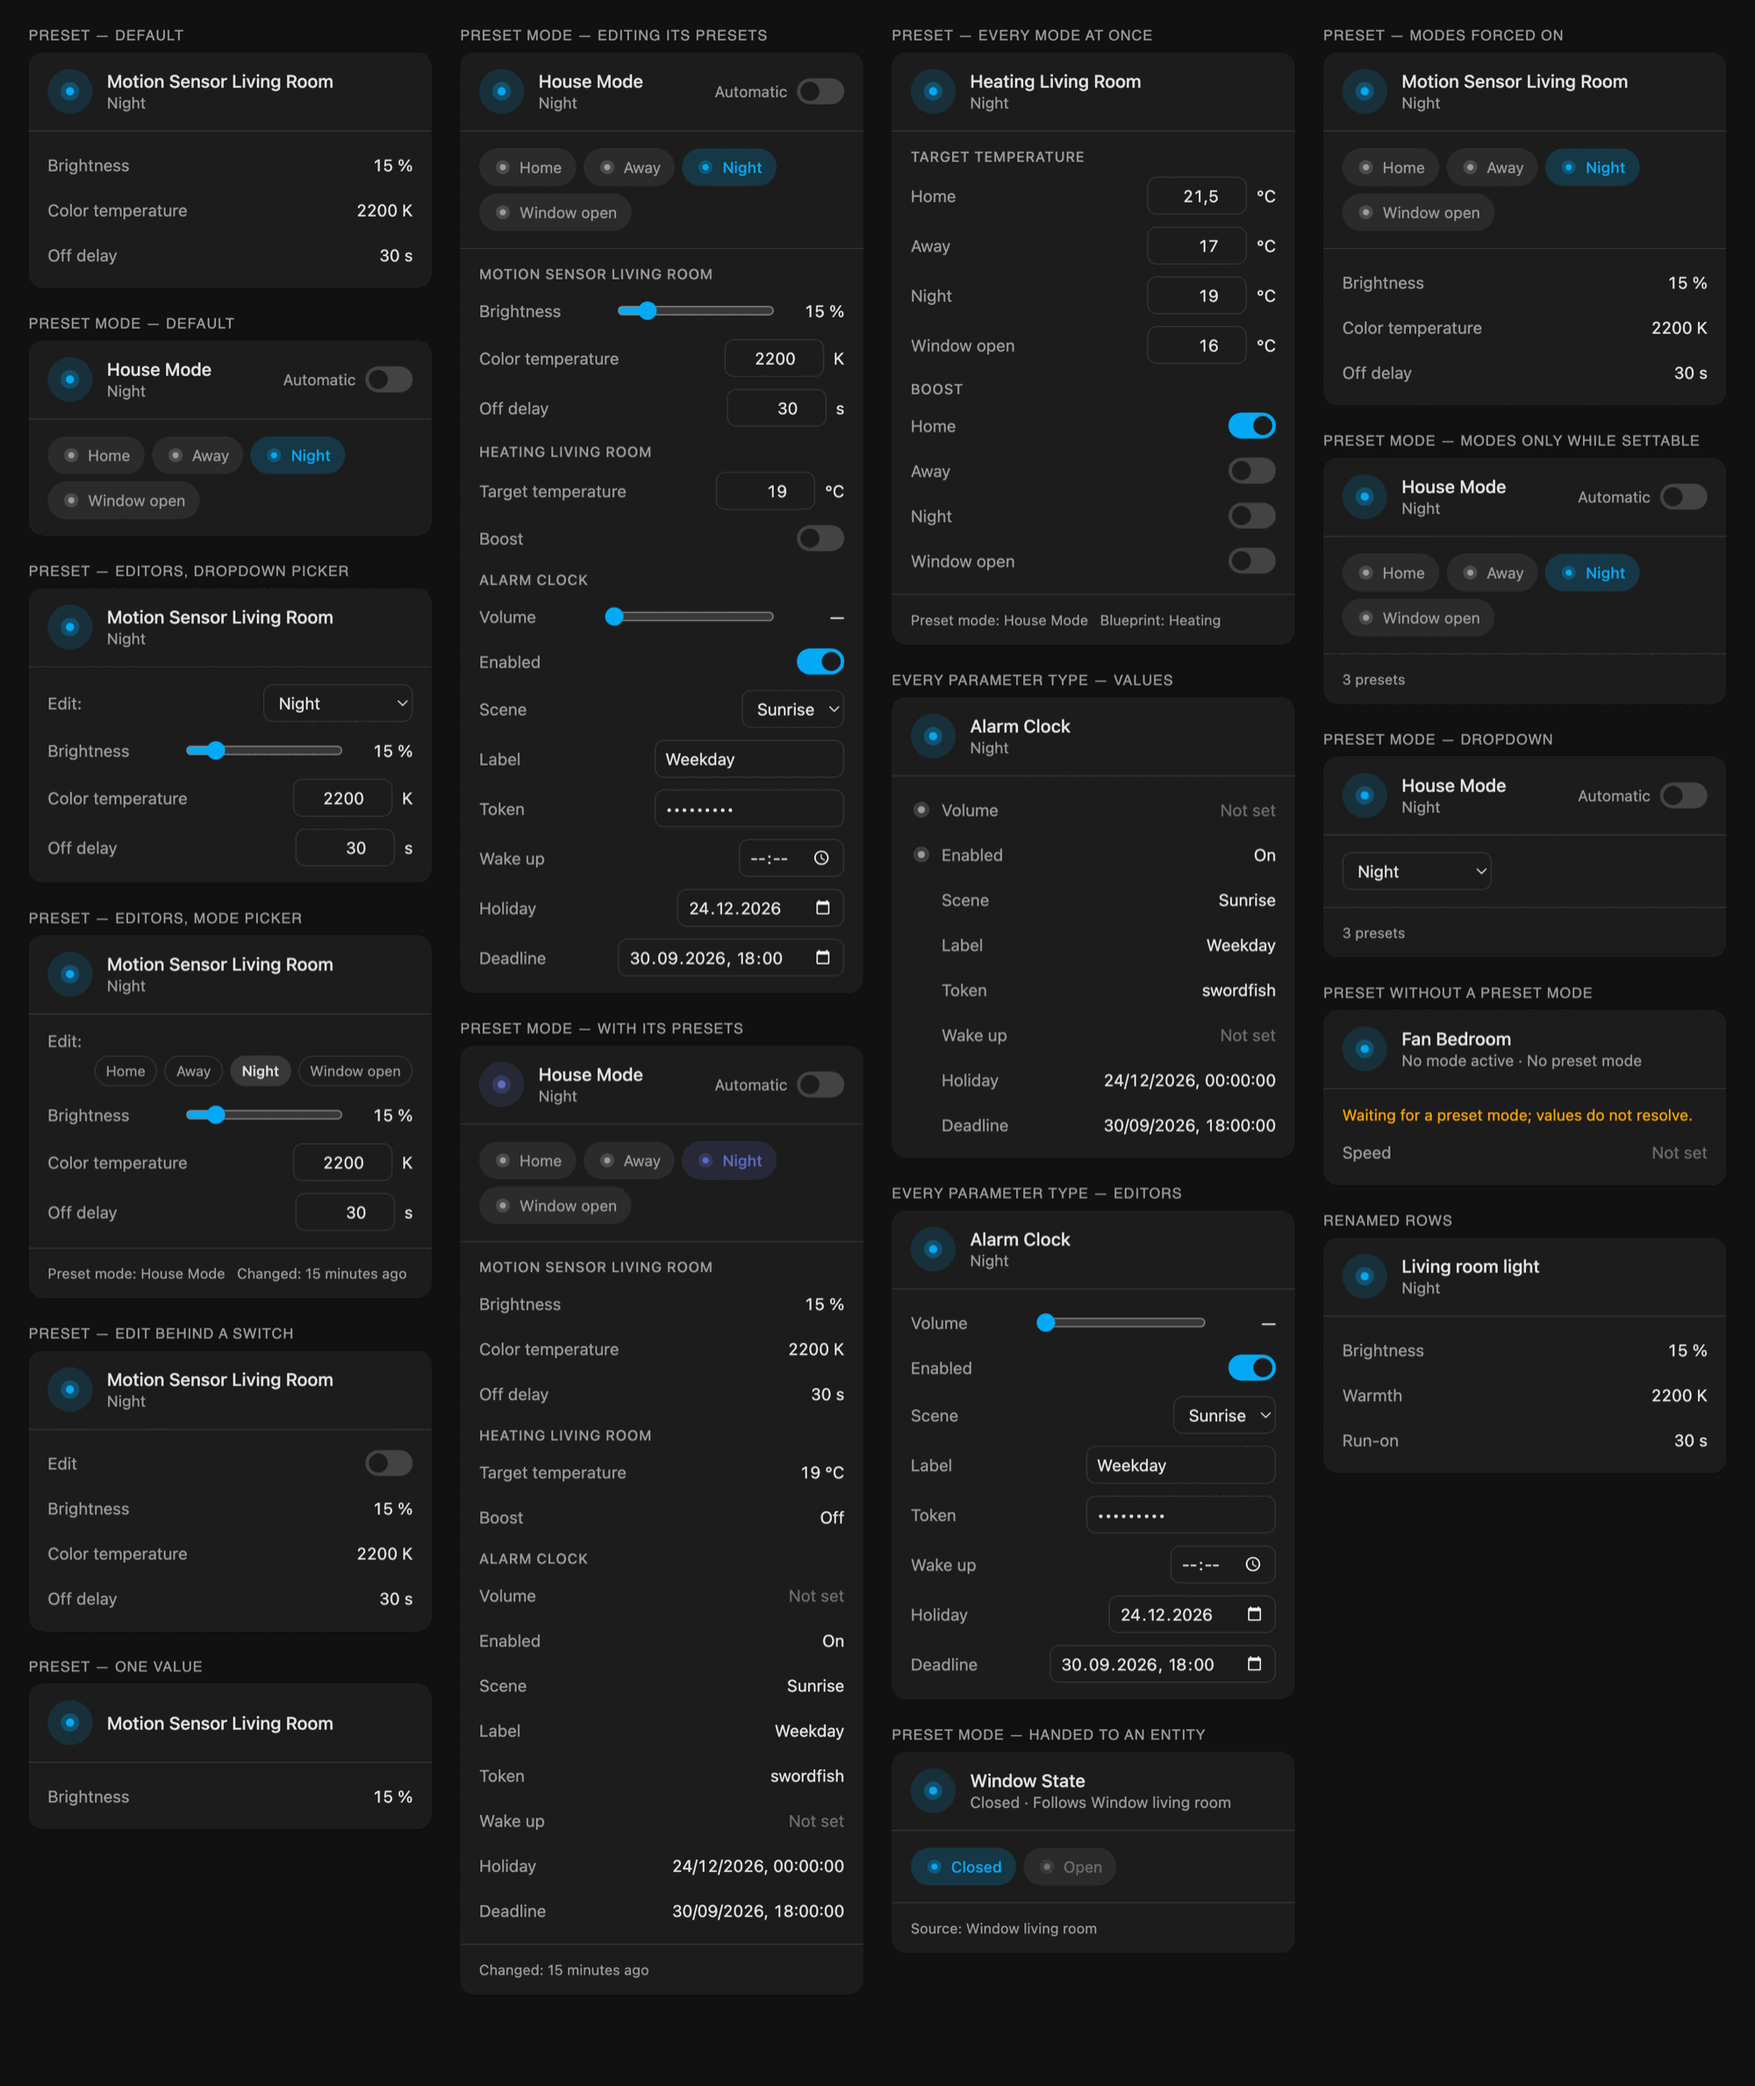
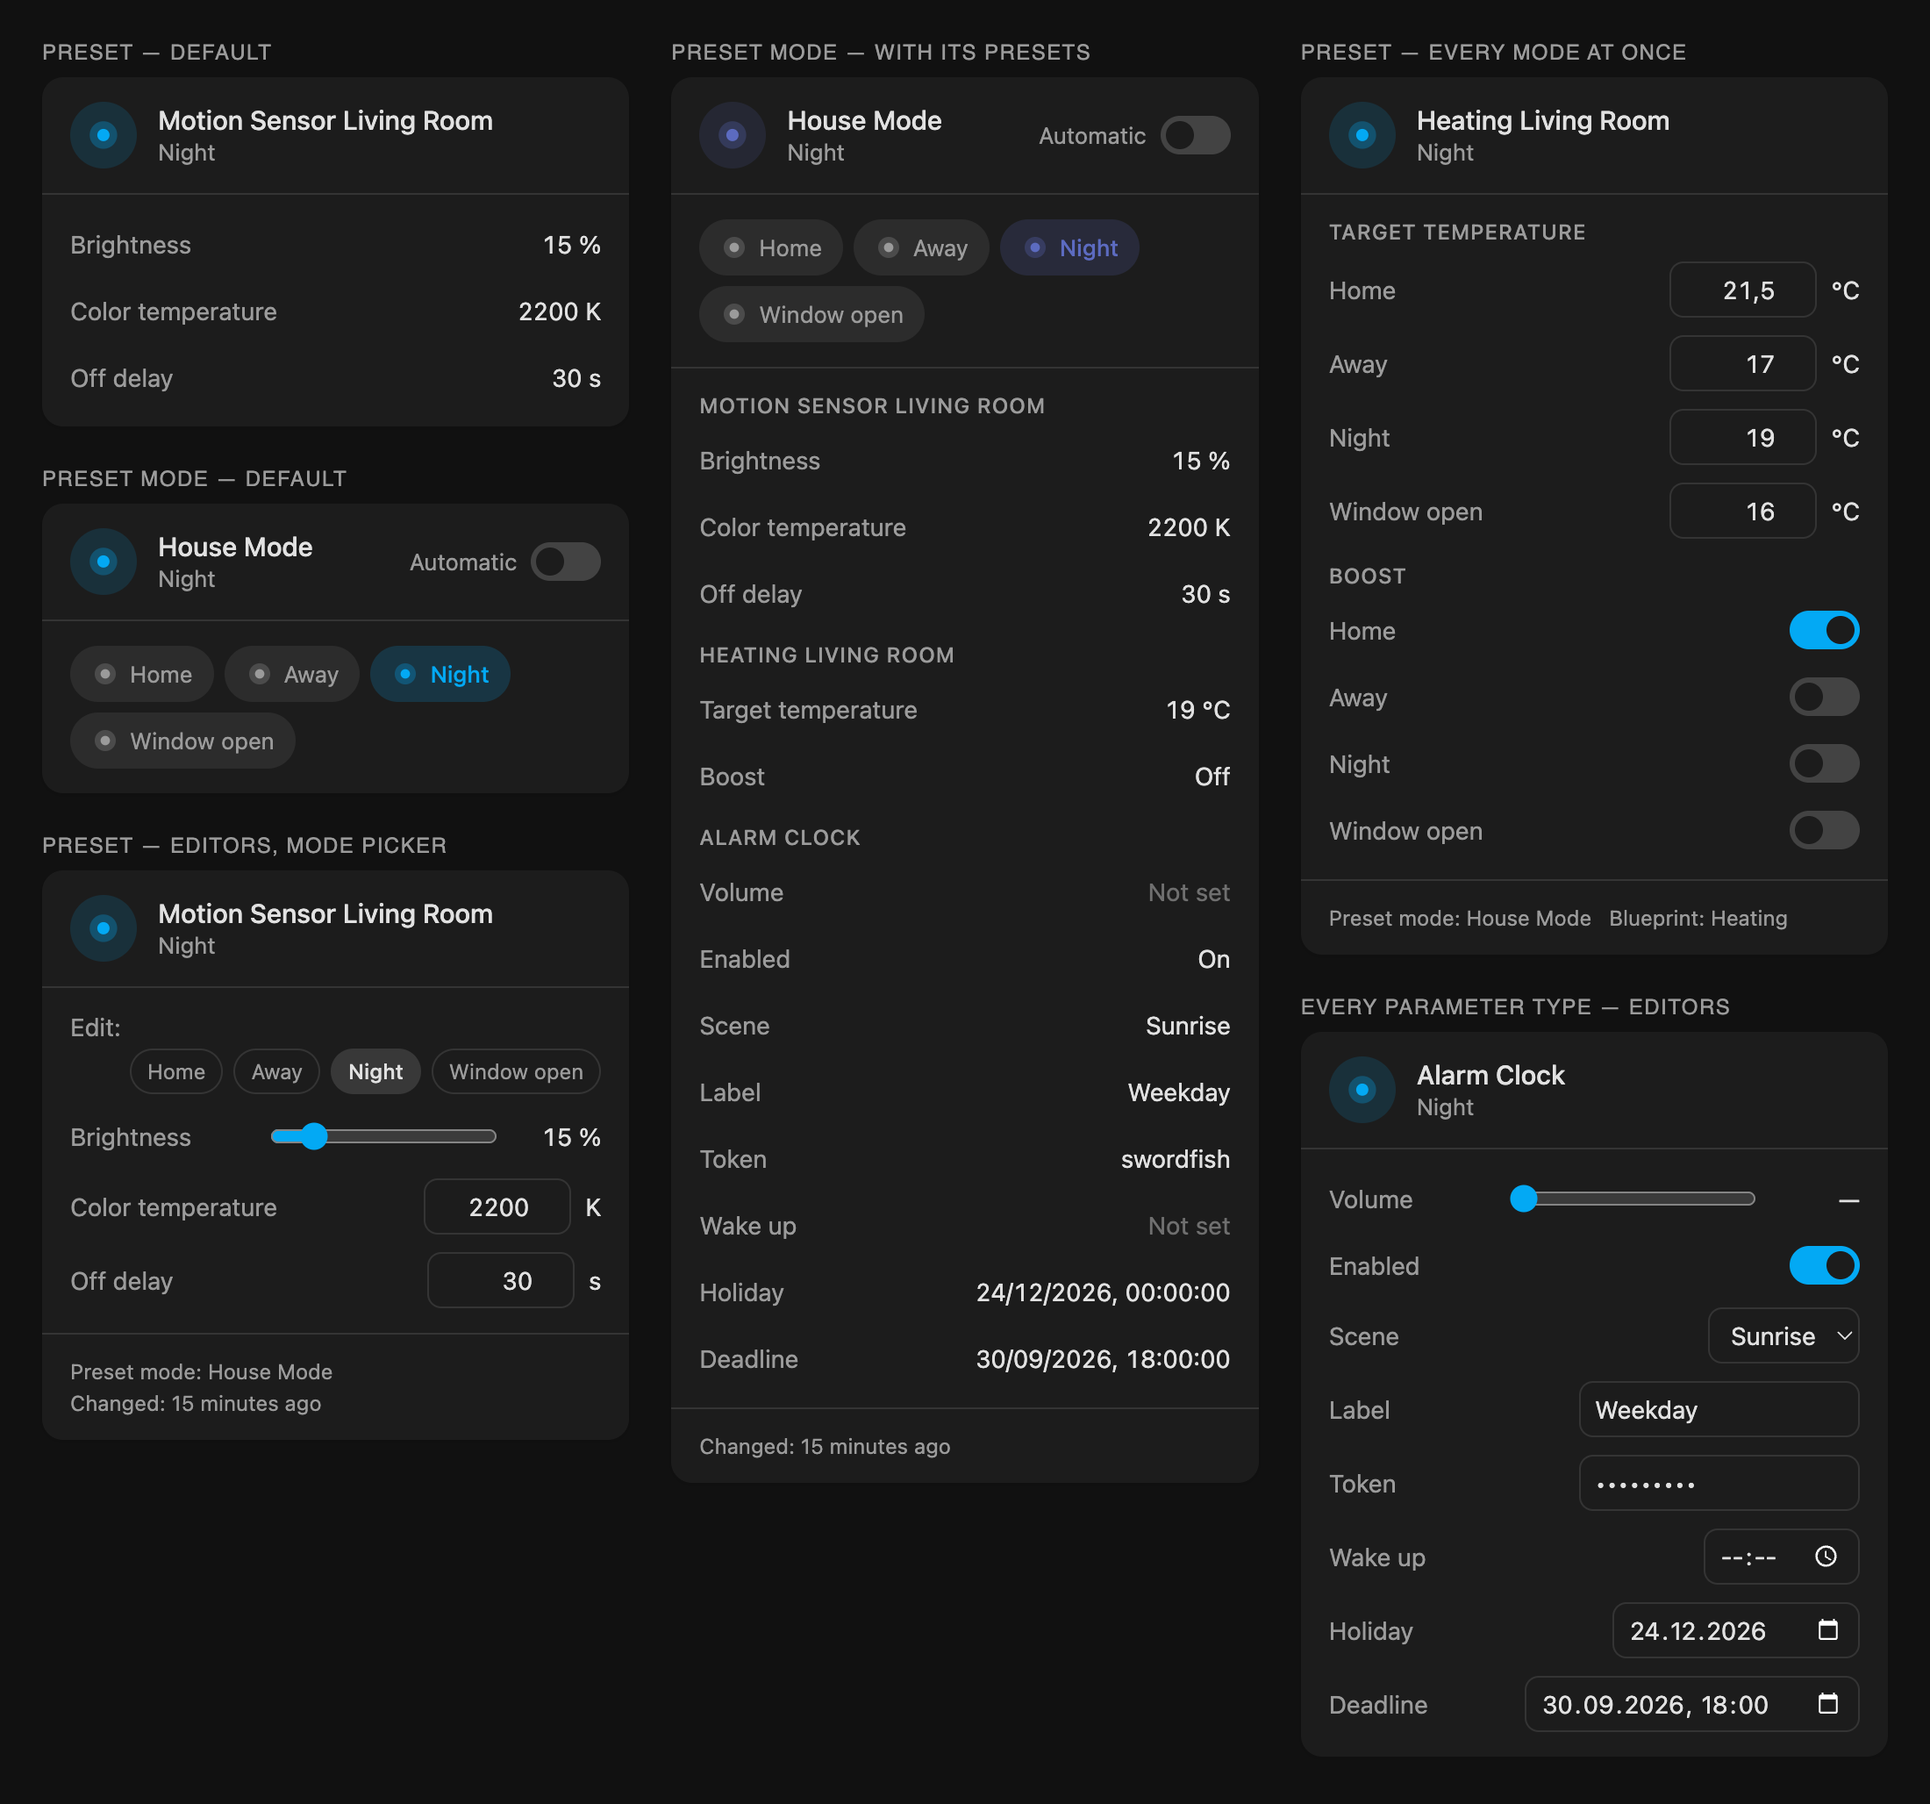
Cut the README picture down to six cards
Seventeen cards at the top of the file was a catalogue, not an introduction - a reader scrolled past all of it to reach the installation section. Six carry the same ground: both kinds of subject, reading versus editing, the composite view and every parameter type. Which six is now a tag in preview.html rather than an argument on the command line, so a card that changes shape changes the picture with it.

diff --git a/frontend/preview.html b/frontend/preview.html
@@ -99,7 +99,7 @@
      tall card's worth of air beneath it. */
   .grid.gallery {
     display: block;
-    column-count: 4;
+    column-count: var(--gallery-columns, 4);
     column-gap: 24px;
   }
 
@@ -646,11 +646,16 @@
 
     // ---------------------------------------------------------------------
     // 4. One card per thing worth looking at.
+    //
+    // The third element tags a card: `narrow` puts it in a 200 pixel column,
+    // `showcase` marks the handful that stand for the rest. Which cards the
+    // picture in the README shows is decided here, not on the command line -
+    // so a card that changes shape changes the picture with it.
     // ---------------------------------------------------------------------
 
     const CARDS = [
-      ["Preset — default", { entity: "sensor.motion_active_mode" }],
-      ["Preset mode — default", { entity: "sensor.house_mode_mode" }],
+      ["Preset — default", { entity: "sensor.motion_active_mode" }, "showcase"],
+      ["Preset mode — default", { entity: "sensor.house_mode_mode" }, "showcase"],
       [
         "Preset — editors, dropdown picker",
         {
@@ -665,6 +670,7 @@
           editor: { enabled: true, mode: "picker" },
           footer: { content: ["preset_mode", "last_changed"] },
         },
+        "showcase",
       ],
       [
         "Preset — edit behind a switch",
@@ -696,6 +702,7 @@
           modes: { colors: { night: "#5c6bc0", window_open: "#ef6c00" } },
           footer: { content: ["last_changed"] },
         },
+        "showcase",
       ],
       [
         "Preset — every mode at once",
@@ -704,6 +711,7 @@
           editor: { enabled: true, mode: "all" },
           footer: { content: ["preset_mode", "blueprint"] },
         },
+        "showcase",
       ],
       [
         "Every parameter type — values",
@@ -715,6 +723,7 @@
           entity: "sensor.clock_active_mode",
           editor: { enabled: true, mode: "active" },
         },
+        "showcase",
       ],
       [
         "Preset mode — handed to an entity",
@@ -771,13 +780,15 @@
 
     resolveAll();
 
-    // Two query parameters, so a screenshot is a command rather than a series
-    // of clicks: `?theme=dark` opens in the dark palette, and `?gallery=1`
-    // drops the prose, the toggle and the narrow column tests - what is left
-    // is the set of cards worth putting in front of a reader.
+    // Query parameters, so a screenshot is a command rather than a series of
+    // clicks: `?theme=dark` opens in the dark palette, `?gallery=1480` drops
+    // the prose, the toggle and the narrow column tests and lays the rest out
+    // at that width, `?showcase=1` narrows it further to the tagged few, and
+    // `?columns=3` says how many columns they are poured into.
     const params = new URLSearchParams(location.search);
     if (params.get("theme") === "dark") document.body.classList.add("dark");
     const gallery = params.has("gallery");
+    const showcase = params.has("showcase");
     if (gallery) {
       for (const id of ["intro", "theme-toggle"]) document.getElementById(id)?.remove();
       // A fixed width so the same command produces the same picture, whatever
@@ -785,17 +796,21 @@
       document.body.style.width = `${params.get("gallery") || 1480}px`;
       document.body.style.boxSizing = "border-box";
       document.getElementById("grid").classList.add("gallery");
+      if (params.has("columns")) {
+        document.body.style.setProperty("--gallery-columns", params.get("columns"));
+      }
     }
 
     import("../custom_components/preset_manager/www/preset-manager-card.js")
       .then(() => {
         const grid = document.getElementById("grid");
-        for (const [title, config, className] of CARDS) {
-          if (gallery && (className === "narrow" || title.includes("Not an entity"))) {
+        for (const [title, config, tags = ""] of CARDS) {
+          if (gallery && (tags.includes("narrow") || title.includes("Not an entity"))) {
             continue;
           }
+          if (showcase && !tags.includes("showcase")) continue;
           const column = document.createElement("div");
-          if (className) column.className = className;
+          if (tags) column.className = tags;
           const heading = document.createElement("h2");
           heading.textContent = title;
           column.appendChild(heading);

diff --git a/README.md b/README.md
@@ -57,12 +57,12 @@ handed to an entity you already have.
 
 ## What it looks like
 
-The integration brings its own dashboard card. Every shape it takes is below —
+The integration brings its own dashboard card. Six of its shapes are below —
 you write one line for the first one and add options only where you want them.
 
-![The Preset Manager card: seventeen variations, from a preset with three values to a preset mode with every preset it drives](assets/card-dark.png)
+![The Preset Manager card in six shapes: a preset showing three values, a preset mode with its four modes, the same preset with editors, a preset mode listing every preset it drives, one preset edited across all four modes at once, and every parameter type as an editor](assets/card-dark.png)
 
-Details, and the configuration behind each of them, are under
+The rest of them, and the configuration behind each, are under
 [Dashboard card](#dashboard-card).
 
 ## Installation
@@ -1059,16 +1059,19 @@ To look at the card without Home Assistant:
 npm run preview        # serves the repository; open the URL it prints
 ```
 
-Two query parameters make that page reproducible rather than something to
-click through: `?theme=dark` opens it in the dark palette, and `?gallery=1480`
-drops the prose and the narrow-column tests and lays the rest out at a fixed
-width. That is how the picture at the top of this file is made:
+Query parameters make that page reproducible rather than something to click
+through: `?theme=dark` opens it in the dark palette, `?gallery=1100` drops the
+prose and the narrow-column tests and lays the rest out at that width,
+`?showcase=1` keeps only the cards tagged for the picture below, and
+`?columns=3` says how many columns they are poured into. Which cards those are
+is decided in `preview.html`, not here, so a card that changes shape changes
+the picture with it. That is how the picture at the top of this file is made:
 
 ```bash
 "/Applications/Google Chrome.app/Contents/MacOS/Google Chrome" \
   --headless=new --hide-scrollbars --force-device-scale-factor=2 \
-  --window-size=1480,1730 --screenshot=assets/card-dark.png \
-  "http://localhost:8765/frontend/preview.html?gallery=1480&theme=dark"
+  --window-size=1100,1028 --screenshot=assets/card-dark.png \
+  "http://localhost:8765/frontend/preview.html?gallery=1100&columns=3&showcase=1&theme=dark"
 ```
 
 [frontend/preview.html](frontend/preview.html) puts every variant on one page —
